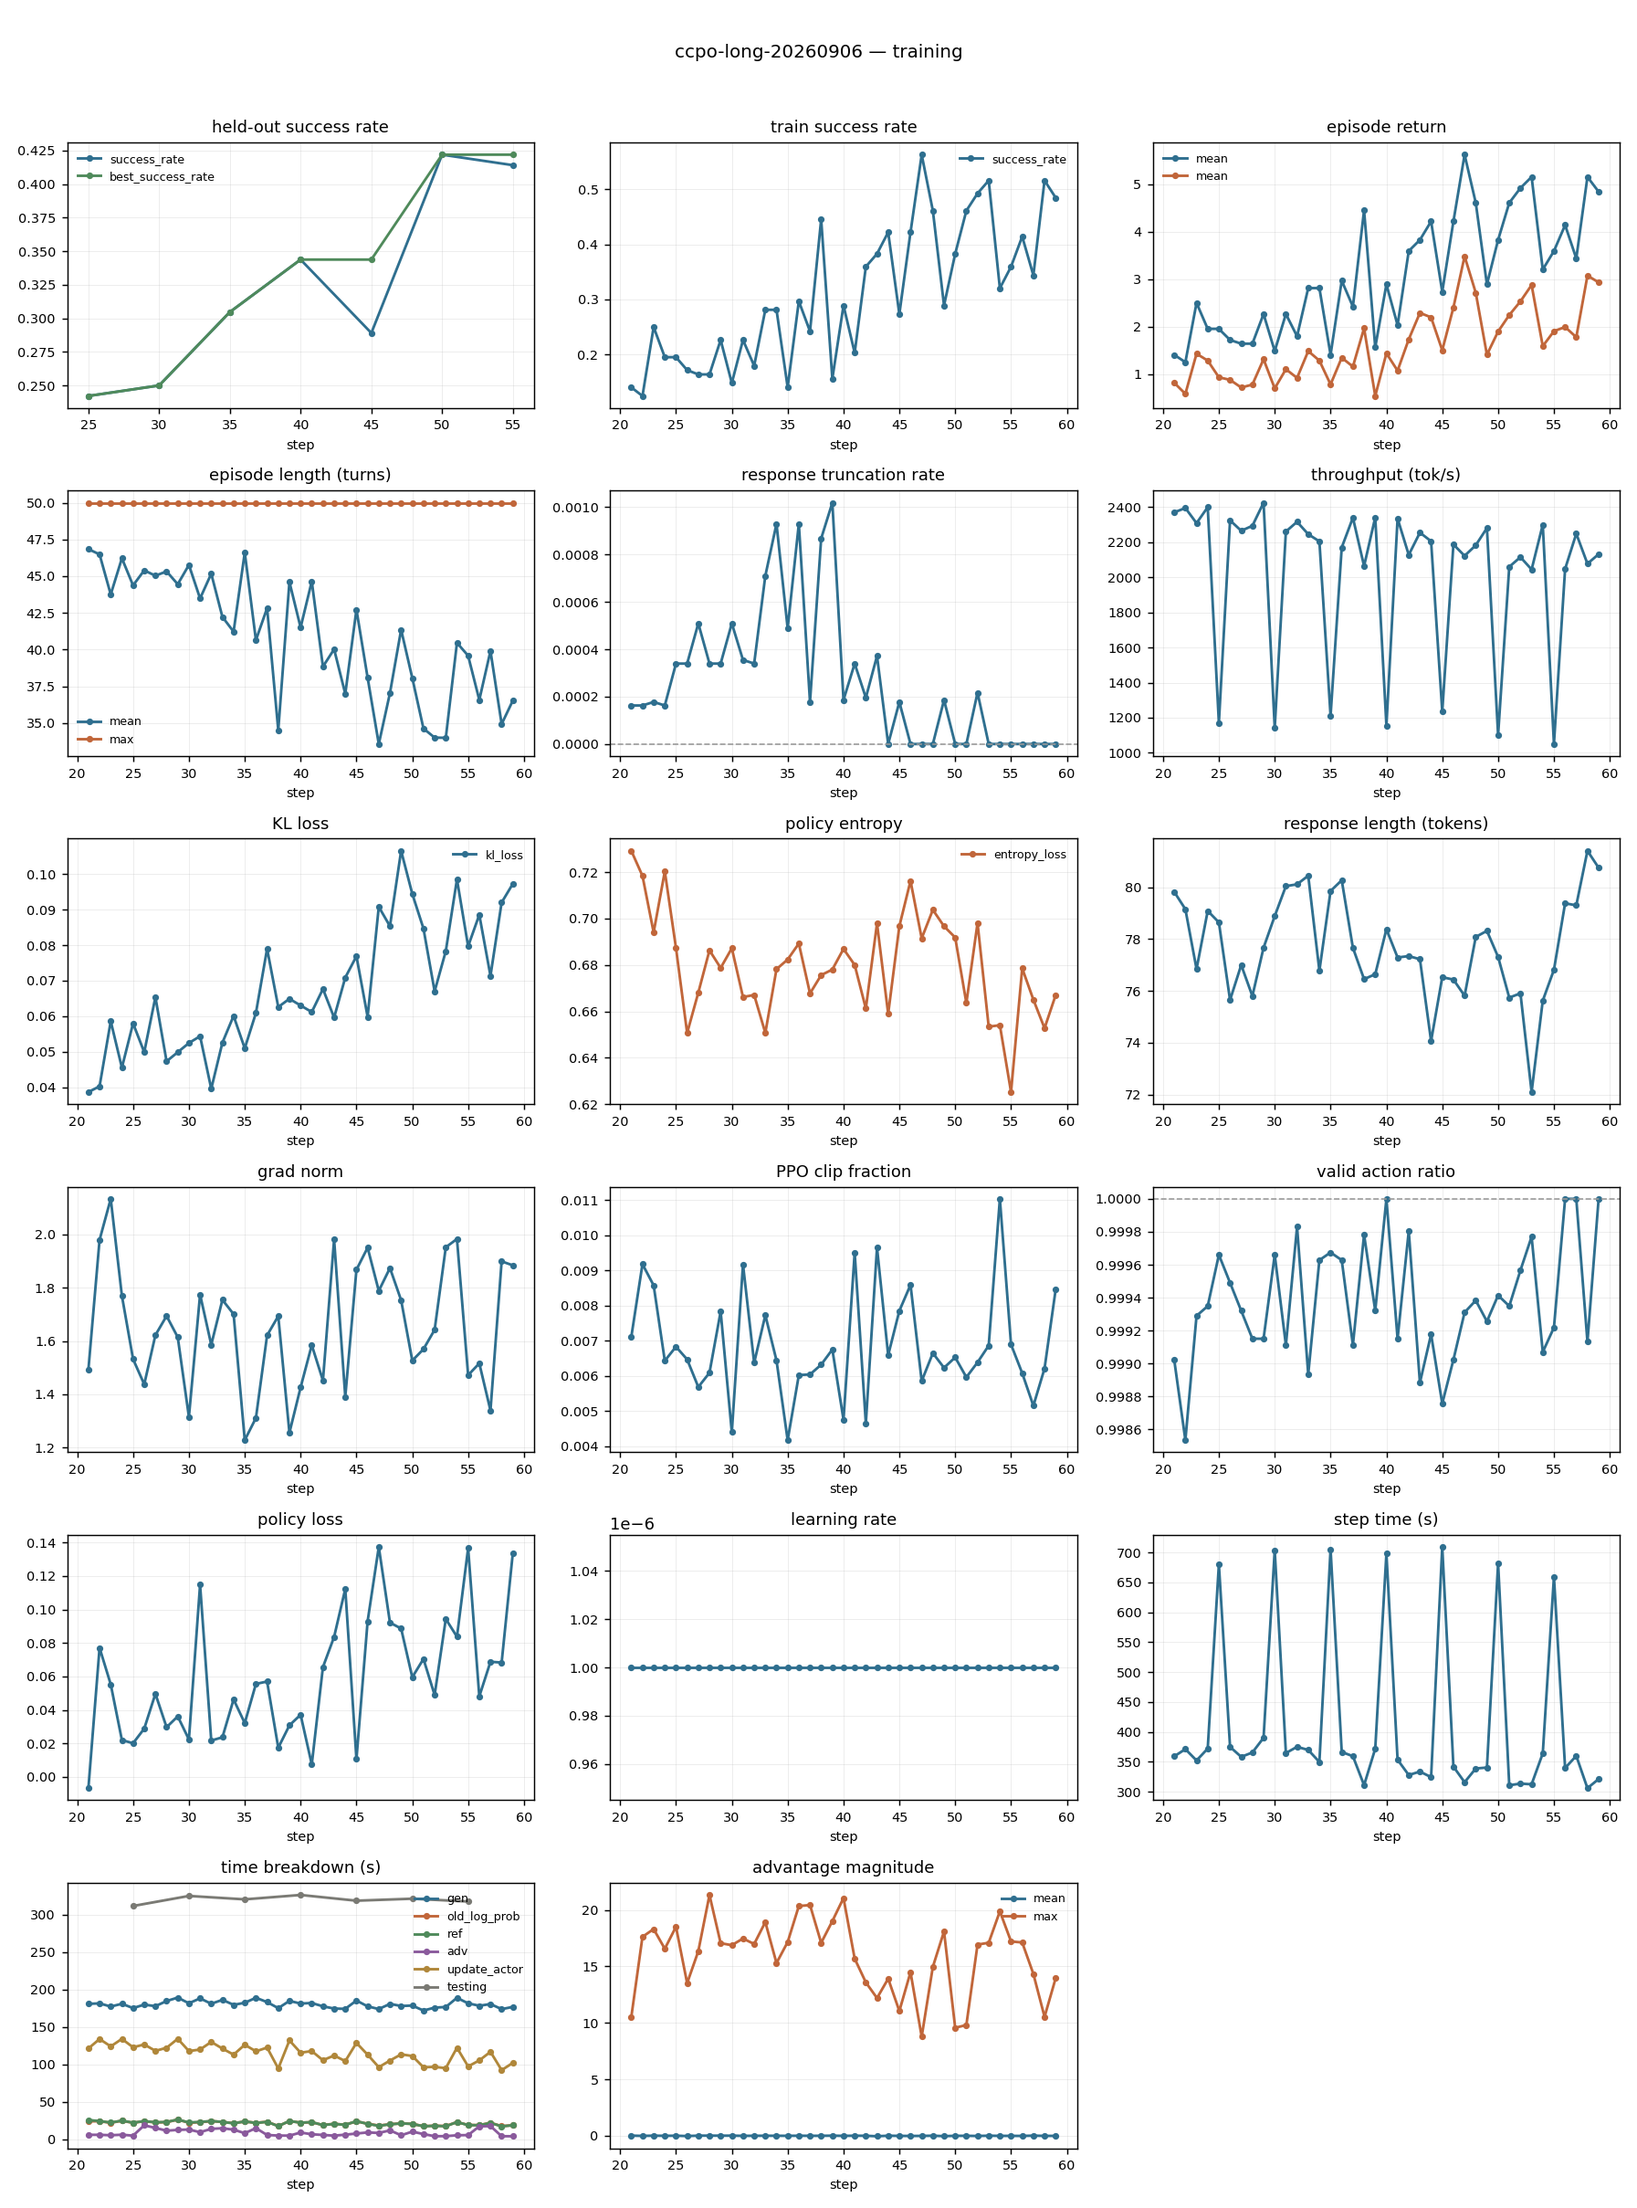
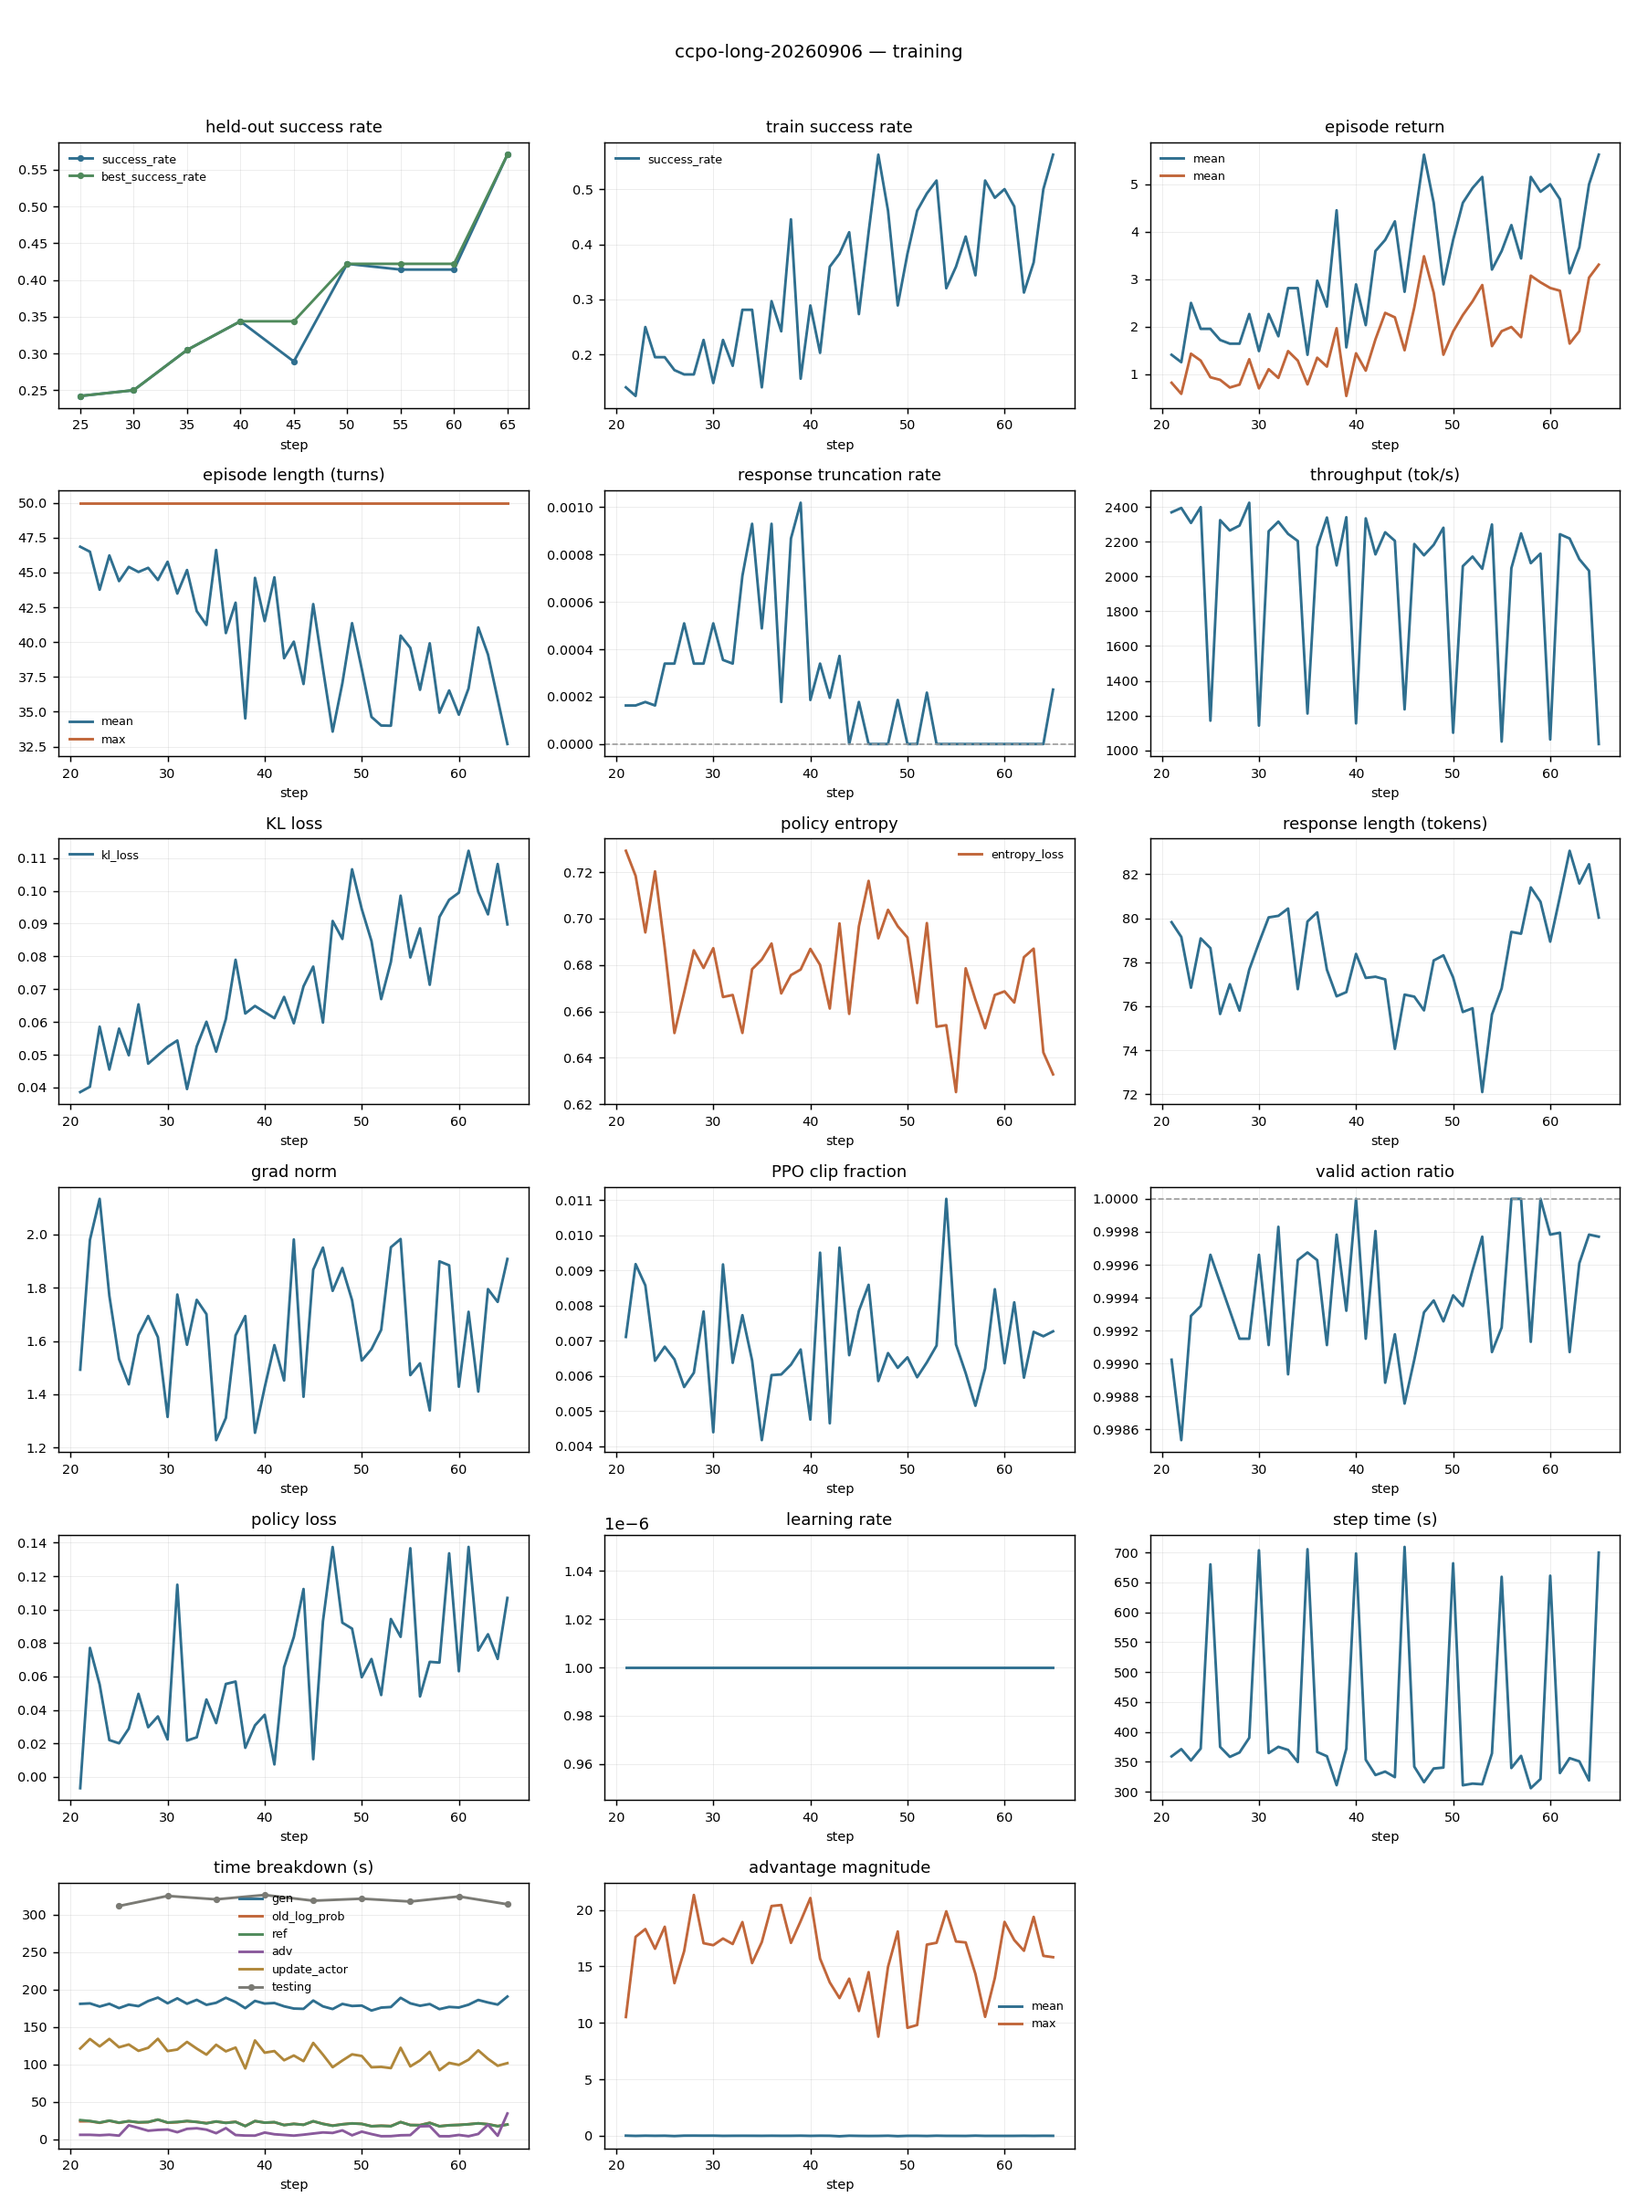
H-I: plateau broke at step 65 (.4141 -> .5703); record what it teaches
Kill criterion was 0.39; actual came in +0.156 above the plateau, ~4 SE. Continuing
was correct, and step 65 already sits inside the 0.45-0.70 band predicted for step
100 with 35 steps left.

The durable lesson is about the curve, not the call: it has flattened or fallen and
resumed three times now (step 30 flat, step 45 down .055, steps 55-60 flat for 15).
At SE ~ 0.04 on 128 episodes a 10-15 step flat window is not resolvable from noise,
so plateau calls here need 20+ steps of evidence. Early stopping's patience of 8
evaluations is correctly sized; the instinct to look at 15 steps was not.

Also records that partial credit declined through the plateau and then jumped to
3.178 -- being less noisy than a noisy indicator does not make it reliable over
three points, which is how I had used it.

Claude-Session: https://claude.ai/code/session_01TnVw4qcXikRNMjxhmmuJXY

diff --git a/experiments/hypothesis.md b/experiments/hypothesis.md
@@ -97,10 +97,10 @@ it triggers on *plateau*, not on being behind schedule, so this is a manual call
 
 **Tracking — `ccpo-long-20260906`, held-out (128 fixed episodes):**
 
-| step | 5 | 10 | 15 | 20 | 25 | 30 | 35 | 40 | 45 | 50 | 55 | 60 |
-|---|---|---|---|---|---|---|---|---|---|---|---|---|
-| success | .0625 | .0781 | .1250 | .1719 | .2422 | .2500 | .3047 | .3438 | .2891 | **.4219** | .4141 | .4141 |
-| partial | .226 | .386 | .454 | .803 | 1.043 | 1.278 | 1.475 | 1.821 | 1.391 | **2.371** | 2.152 | 2.038 |
+| step | 5 | 10 | 15 | 20 | 25 | 30 | 35 | 40 | 45 | 50 | 55 | 60 | 65 |
+|---|---|---|---|---|---|---|---|---|---|---|---|---|---|
+| success | .0625 | .0781 | .1250 | .1719 | .2422 | .2500 | .3047 | .3438 | .2891 | .4219 | .4141 | .4141 | **.5703** |
+| partial | .226 | .386 | .454 | .803 | 1.043 | 1.278 | 1.475 | 1.821 | 1.391 | 2.371 | 2.152 | 2.038 | **3.178** |
 
 (Steps 5–20 are `ccpo-mem`; 25+ are the warm-started continuation. Same config, same
 constant LR, so the series is one curve.)
@@ -147,6 +147,22 @@ would be a decline rather than a plateau, and partial credit falling for a fourt
 consecutive evaluation would corroborate it. In that case kill immediately rather
 than waiting for step 90; early stopping fires on plateau, and a decline is worse
 than a plateau.
+
+> **Resolved at step 65: 0.5703.** The kill criterion was 0.39; actual came in
+> +0.156 above the plateau, ~4 SE. Continuing was correct.
+>
+> **The lesson worth keeping is about this curve's shape, not about this call.**
+> It has now flattened or fallen and resumed *three* times — step 30 (+.008), step
+> 45 (−.055), steps 55–60 (flat for 15 steps). Every one looked like a plateau in
+> the moment and none was. On a 128-episode held-out with SE ≈ 0.04, a 10–15 step
+> flat window is simply not resolvable from noise, so **plateau calls on this setup
+> need ~20+ steps of evidence, not 15.** Early stopping's patience of 8 evaluations
+> (40 steps) is correctly sized; my instinct to look at 15 was not.
+>
+> Also worth recording: partial credit declined across the plateau (2.371 → 2.152 →
+> 2.038) and I weighted that as corroborating evidence because it is the less noisy
+> indicator. It then jumped to 3.178. Being less noisy than a noisy thing does not
+> make it a reliable leading indicator over three points.
 
 **One caution against reading the increments too finely:** at p≈0.3 with n=128 the
 binomial SE is 0.040, so any single step-to-step move under ~0.08 is inside noise.
